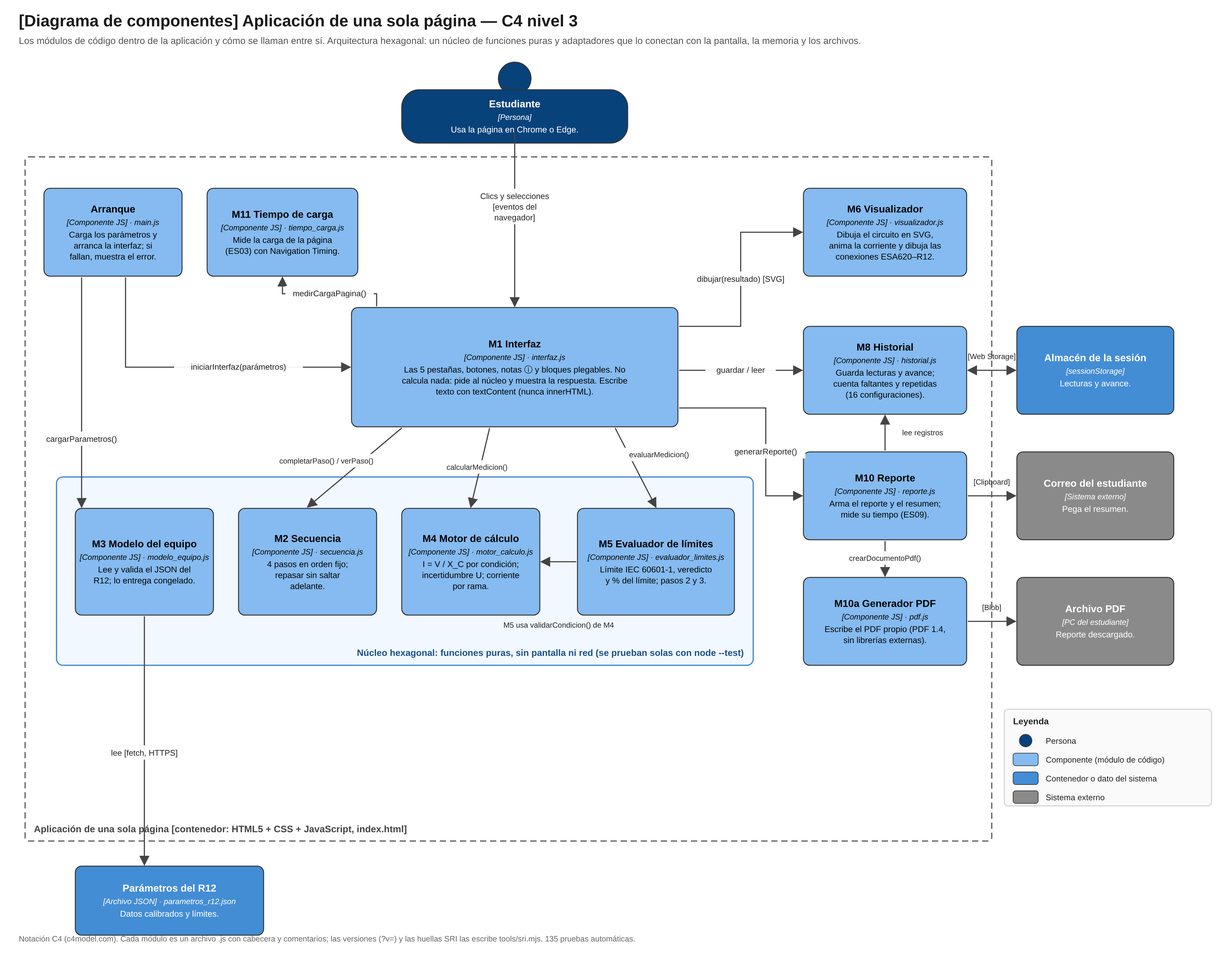
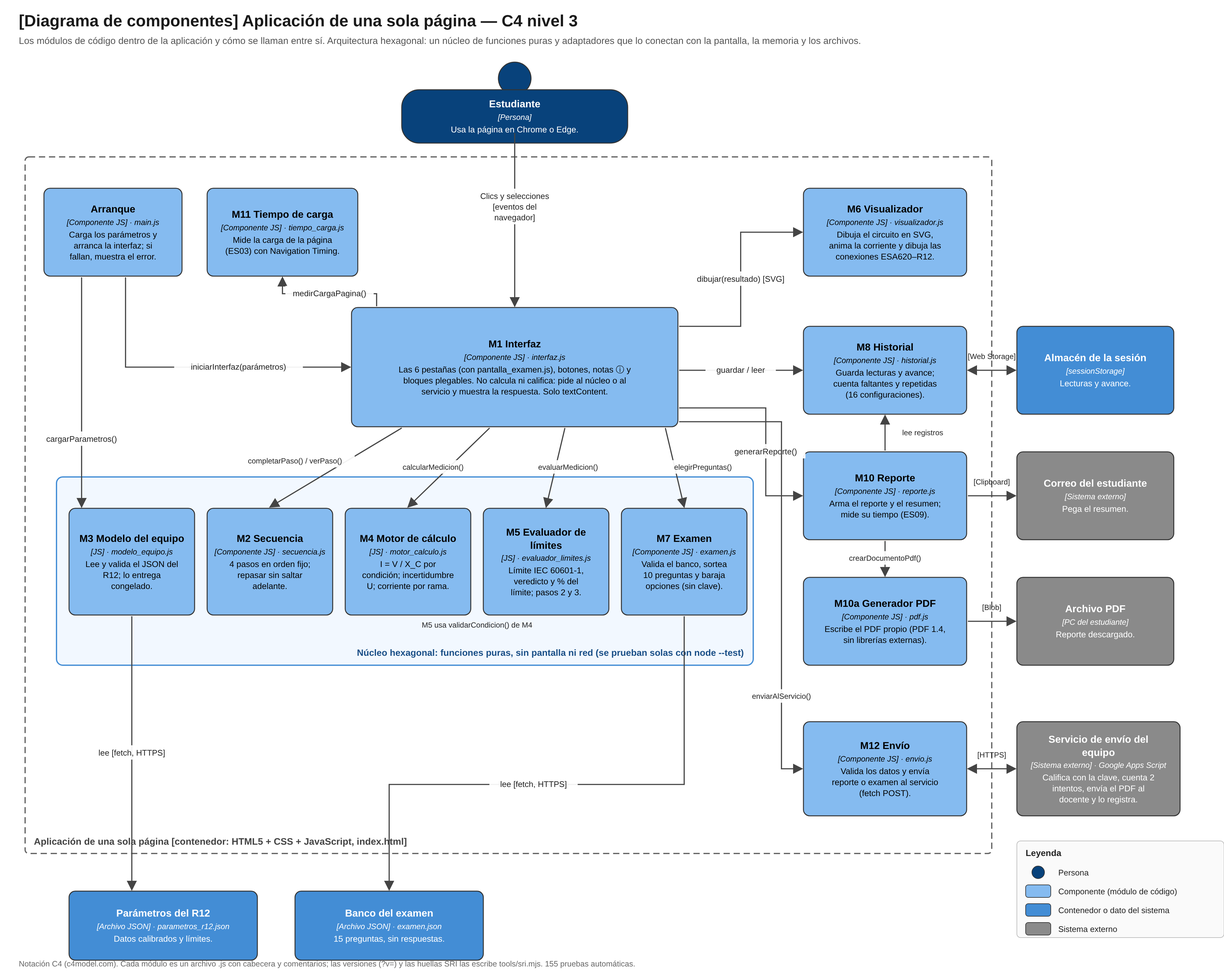
M1/M12: correo del docente vacío por defecto + ES13 + diagrama N3
- CORREO_DOCENTE_POR_DEFECTO = "": las casillas del reporte y del examen
  empiezan vacías, con placeholder "nombre@uao.edu.co" y la nota
  "Escribe el correo de tu docente (solo @uao.edu.co)".
- Vacío al enviar: error "Escribe el correo de tu docente" (prueba nueva).
- Se quita el correo de un docente en particular de código, pruebas,
  ayuda, manual, docs/08, CLAUDE.md y CHANGELOG.
- docs/verificacion.md: ES13 cumple (prueba real del 26/11/2026).
- docs/Diagramas/C4_N3_Componentes_v2.png: diagrama N3 nuevo.
- Hashes SRI regenerados.

diff --git a/index.html b/index.html
@@ -24,10 +24,10 @@
   <!-- Integridad (SRI): las huellas SHA-384 las escribe tools/sri.mjs; correrlo después de cambiar JS o CSS -->
   <link rel="stylesheet" href="css/estilos.css?v=564b5e23bd" integrity="sha384-VkteI71buM/Fq7YrhiiMlf6W3yiaQ6f8HHQUzPARotUK5MSBK8u0i3riDKLifPXG">
   <!-- SRI: inicio (generado por tools/sri.mjs, no editar a mano) -->
-  <link rel="modulepreload" href="js/adaptadores/envio.js?v=b9d3663c3b" integrity="sha384-udNmPDv6KWruCGcNm1OxtzwYFEZISs++UScz90XP6mdzwIYhaiToVRvc/XUHAO0p">
+  <link rel="modulepreload" href="js/adaptadores/envio.js?v=096afc80cc" integrity="sha384-CWr8gMxcOMt4hMW9ra5o9iOC81ie70DixgbIHPA+u9Qz36RVXeB+v2l2a9Dmmm3g">
   <link rel="modulepreload" href="js/adaptadores/historial.js?v=37beb88db5" integrity="sha384-N764jbU0sVhRC7ghKObyjTjXmaVMHHAPvVcAtTAhaCYpBXdSrwJZ+STKTxzDL19N">
-  <link rel="modulepreload" href="js/adaptadores/interfaz.js?v=c55fec1c5d" integrity="sha384-xV/sHF1vR+9a88AwXAmiloTL28ab7rltc/hvzeseOoAP5Q78oN+xK8rviIzMd/4y">
-  <link rel="modulepreload" href="js/adaptadores/pantalla_examen.js?v=f8182e48fb" integrity="sha384-+BguSPtTKXBp5pAe8B7EV1qlGm/wtVo1qbj2Cb3iitR15nyv3utwSZK77VLQYFdm">
+  <link rel="modulepreload" href="js/adaptadores/interfaz.js?v=6b6bbd1bf4" integrity="sha384-a2u9G/SvegYTypy+KB/WXNvbdvRXn3vz0UqU4Jv4aruvGyKWixVvGkogRr1yzQZI">
+  <link rel="modulepreload" href="js/adaptadores/pantalla_examen.js?v=5ac449d82d" integrity="sha384-WsRJ2C2QOvr8U0P6fWERE++Mx7eRHwcGp5u0vybOezxRWsgzSrMafH0O5R1U4q0m">
   <link rel="modulepreload" href="js/adaptadores/pdf.js?v=bfb0882a03" integrity="sha384-v7CIKgNGK+lpQsqZM3Hh3aYLncGJ3oK0L3QlRkSK4QYwGuJsLVeK0pdtChNpFmq+">
   <link rel="modulepreload" href="js/adaptadores/reporte.js?v=8550e3a4c5" integrity="sha384-hVDjpMW7no30tOWClpB0BNATMJeJTJ226Tnw66XxRfh4iIRp6TSKh+qUoNpo2LtS">
   <link rel="modulepreload" href="js/adaptadores/tiempo_carga.js?v=1c9699f3b9" integrity="sha384-HJaZ87n6slac+sCKpiv4PovGknwW6qIsYSbPkXqTEJSFVD0wGqJegnc9QHmWVjjg">
@@ -38,7 +38,7 @@
   <link rel="modulepreload" href="js/nucleo/motor_calculo.js?v=c6349ec03b" integrity="sha384-xjSewDuO4RE5LN0YcvnJ5XfgNxkZ4GzzGBSuFcnG0SfD8RlOo0ddhp04r0b6fTTH">
   <link rel="modulepreload" href="js/nucleo/secuencia.js?v=bffe121e07" integrity="sha384-v/4SHgduYquka0rL7HHdb+Z7SFxlx6UnWtzSicOu2HWYIDc2nw7ylTx8duc2u5qj">
   <!-- SRI: fin -->
-  <script type="module" src="js/main.js?v=bac5be55f5" integrity="sha384-usW+VfVHZyq9Sax2/PQHv1bn6dPM6a4zevHUbfDMoXyQYBiM3sRZNa0YgJ9sTC4J"></script>
+  <script type="module" src="js/main.js?v=4e91705ff3" integrity="sha384-TpFwX/Ntcf857Sb5b8O7FYUREFufUbBlhRA0luoxulMlfaAR4ia71VnNo7Cyffx/"></script>
 </head>
 <body>
   <header class="encabezado">
@@ -344,8 +344,8 @@
             <input type="text" id="envio-codigo" inputmode="numeric" maxlength="10" autocomplete="off" spellcheck="false">
             <label for="envio-correo">Correo del docente</label>
             <div>
-              <input type="email" id="envio-correo" maxlength="120" autocomplete="off" spellcheck="false">
-              <p class="nota">Solo correos @uao.edu.co</p>
+              <input type="email" id="envio-correo" maxlength="120" autocomplete="off" spellcheck="false" placeholder="nombre@uao.edu.co">
+              <p class="nota">Escribe el correo de tu docente (solo @uao.edu.co)</p>
             </div>
           </div>
           <label class="envio__consentimiento">
@@ -380,8 +380,8 @@
           <input type="text" id="examen-codigo" inputmode="numeric" maxlength="10" autocomplete="off" spellcheck="false">
           <label for="examen-correo">Correo del docente</label>
           <div>
-            <input type="email" id="examen-correo" maxlength="120" autocomplete="off" spellcheck="false">
-            <p class="nota">Solo correos @uao.edu.co</p>
+            <input type="email" id="examen-correo" maxlength="120" autocomplete="off" spellcheck="false" placeholder="nombre@uao.edu.co">
+            <p class="nota">Escribe el correo de tu docente (solo @uao.edu.co)</p>
           </div>
         </div>
         <label class="envio__consentimiento">

diff --git a/ayuda.html b/ayuda.html
@@ -8,7 +8,7 @@
     manual, hay que actualizar también esta página (docs/mantenimiento.md).
   Módulo: M1 – Interfaz de usuario (adaptador)
   Autores: Yustin Rico, David Cardona, Santiago González
-  Creado: 2026-11-14 · Modificado: 2026-11-25
+  Creado: 2026-11-14 · Modificado: 2026-11-26
   ============================================================================
 -->
 <html lang="es">
@@ -143,7 +143,7 @@
       <ol>
         <li>Revisa tu <strong>nombre completo</strong> (viene del reporte; de 3 a 60 caracteres).</li>
         <li>Escribe tu <strong>código estudiantil</strong> (solo números, de 5 a 10 dígitos).</li>
-        <li>Revisa el <strong>correo del docente</strong>: viene lleno con <code>cferro@uao.edu.co</code> y lo puedes cambiar, pero solo se aceptan correos <strong>@uao.edu.co</strong>.</li>
+        <li>Escribe el <strong>correo de tu docente</strong>: la casilla viene vacía y solo se aceptan correos <strong>@uao.edu.co</strong>. Si la dejas vacía, la página te pide «Escribe el correo de tu docente».</li>
         <li>Marca la casilla de consentimiento (Ley 1581 de 2012). Sin ella no se envía nada.</li>
         <li>Presiona <strong>«Enviar reporte al docente»</strong>. Al final aparece un mensaje en verde (enviado) o un aviso con el problema.</li>
         <li>Si no hay internet o el servicio no responde, <strong>descarga el PDF y envíalo tú</strong>.</li>
@@ -154,7 +154,7 @@
       <h3>Paso 6 — Presenta el examen (pestaña «6. Examen»)</h3>
       <p>Son 10 preguntas al azar sobre lo que viste en la herramienta. Nota de 0 a 5; apruebas con 3.0. Tienes <strong>máximo 2 intentos</strong>. Puedes presentarlo aunque no hayas hecho la práctica.</p>
       <ol>
-        <li>Escribe tu <strong>nombre completo</strong>, tu <strong>código estudiantil</strong> y revisa el <strong>correo del docente</strong> (solo @uao.edu.co).</li>
+        <li>Escribe tu <strong>nombre completo</strong>, tu <strong>código estudiantil</strong> y el <strong>correo de tu docente</strong> (viene vacío; solo @uao.edu.co).</li>
         <li>Marca la casilla de consentimiento (Ley 1581 de 2012) y presiona <strong>«Comenzar examen»</strong>. Si ya usaste los 2 intentos, aparece «Ya usaste tus 2 intentos» y no deja empezar.</li>
         <li>Arriba de las preguntas dice <strong>«Intento X de 2»</strong>. Elige una opción en cada pregunta (las opciones salen en desorden en cada intento).</li>
         <li>Cuando respondas las 10 se activa <strong>«Enviar examen»</strong>. Confirma con <strong>«Sí, enviar»</strong>: después no podrás cambiar las respuestas.</li>

diff --git a/js/adaptadores/envio.js b/js/adaptadores/envio.js
@@ -14,7 +14,7 @@
  *   para avisarle al estudiante antes de enviar.
  * Módulo: M12 – Envío (adaptador)
  * Autores: Yustin Rico, David Cardona, Santiago González
- * Creado: 2026-11-25 · Modificado: 2026-11-25
+ * Creado: 2026-11-25 · Modificado: 2026-11-26
  * ============================================================================
  */
 
@@ -28,8 +28,8 @@ export const URL_SERVICIO = "https://script.google.com/macros/s/AKfycby34BCGJeju
 /** Forma que debe tener la dirección de un Apps Script publicado. */
 const PATRON_URL_SERVICIO = /^https:\/\/script\.google\.com\/macros\/s\/[A-Za-z0-9_-]+\/exec$/;
 
-/** Correo del docente que aparece lleno por defecto (se puede cambiar). */
-export const CORREO_DOCENTE_POR_DEFECTO = "cferro@uao.edu.co";
+/** Correo del docente con el que empieza la casilla: vacío, el estudiante escribe el de su docente. */
+export const CORREO_DOCENTE_POR_DEFECTO = "";
 
 /** Reglas de los datos (las mismas del servicio, CONFIG en Codigo_AppsScript.gs). */
 export const LARGO_MINIMO_NOMBRE_ENVIO = 3;
@@ -44,6 +44,7 @@ const TIEMPO_MAXIMO_ENVIO_MS = 30000;
 export const ERRORES_ENVIO = Object.freeze({
   nombre: `Escribe tu nombre completo (de ${LARGO_MINIMO_NOMBRE_ENVIO} a ${LARGO_MAXIMO_NOMBRE_ENVIO} caracteres).`,
   codigo: "El código estudiantil debe tener solo números (5 a 10 dígitos).",
+  correoVacio: "Escribe el correo de tu docente",
   correo: "El correo del docente debe terminar en @uao.edu.co.",
   consentimiento: "Debes aceptar el envío de tus datos al docente.",
 });
@@ -77,8 +78,11 @@ export function validarDatosEnvio({ nombre, codigo, correoDocente, consentimient
   if (!PATRON_CODIGO.test(String(codigo ?? "").trim())) {
     errores.push(ERRORES_ENVIO.codigo);
   }
-  // Correo del docente: solo de la universidad (sin importar mayúsculas)
-  if (!PATRON_CORREO_DOCENTE.test(String(correoDocente ?? "").trim())) {
+  // Correo del docente: obligatorio y solo de la universidad (sin importar mayúsculas)
+  const correoLimpio = String(correoDocente ?? "").trim();
+  if (correoLimpio === "") {
+    errores.push(ERRORES_ENVIO.correoVacio);
+  } else if (!PATRON_CORREO_DOCENTE.test(correoLimpio)) {
     errores.push(ERRORES_ENVIO.correo);
   }
   // Consentimiento: tiene que ser exactamente true (casilla marcada)

diff --git a/tests/envio.test.js b/tests/envio.test.js
@@ -7,7 +7,7 @@
  *   También revisa que el código del servicio publicado no traiga la clave.
  * Módulo: M12 – Envío (pruebas)
  * Autores: Yustin Rico, David Cardona, Santiago González
- * Creado: 2026-11-25 · Modificado: 2026-11-25
+ * Creado: 2026-11-25 · Modificado: 2026-11-26
  * ============================================================================
  */
 
@@ -20,7 +20,7 @@ import { validarDatosEnvio, bytesABase64, ERRORES_ENVIO, CORREO_DOCENTE_POR_DEFE
 const DATOS_VALIDOS = Object.freeze({
   nombre: "Ana María Pérez",
   codigo: "2235552",
-  correoDocente: CORREO_DOCENTE_POR_DEFECTO,
+  correoDocente: "docente@uao.edu.co",
   consentimiento: true,
 });
 
@@ -58,12 +58,20 @@ test("Código: solo números, de 5 a 10 dígitos", () => {
 
 test("Correo del docente: solo @uao.edu.co, sin importar mayúsculas", () => {
   // Casos válidos (incluido todo en mayúsculas)
-  for (const correoDocente of ["cferro@uao.edu.co", "X@UAO.EDU.CO", "nombre.apellido@uao.edu.co"]) {
+  for (const correoDocente of ["docente@uao.edu.co", "X@UAO.EDU.CO", "nombre.apellido@uao.edu.co"]) {
     assert.deepEqual(validarCon({ correoDocente }), [], `correo: ${correoDocente}`);
   }
-  // Casos inválidos: otro dominio, subdominio falso, sin usuario, con espacio, vacío
-  for (const correoDocente of ["x@gmail.com", "x@uao.edu.co.evil.com", "@uao.edu.co", "a b@uao.edu.co", "uao.edu.co", ""]) {
+  // Casos inválidos: otro dominio, subdominio falso, sin usuario, con espacio
+  for (const correoDocente of ["x@gmail.com", "x@uao.edu.co.evil.com", "@uao.edu.co", "a b@uao.edu.co", "uao.edu.co"]) {
     assert.deepEqual(validarCon({ correoDocente }), [ERRORES_ENVIO.correo], `correo: ${correoDocente}`);
+  }
+});
+
+test("Correo del docente vacío: pide escribirlo (la casilla empieza vacía)", () => {
+  assert.equal(CORREO_DOCENTE_POR_DEFECTO, "");
+  // Vacío, solo espacios o ausente
+  for (const correoDocente of ["", "   ", undefined, null]) {
+    assert.deepEqual(validarCon({ correoDocente }), ["Escribe el correo de tu docente"], `correo: ${String(correoDocente)}`);
   }
 });
 

diff --git a/js/adaptadores/pantalla_examen.js b/js/adaptadores/pantalla_examen.js
@@ -22,10 +22,10 @@
  */
 
 import { elegirPreguntas, barajarOpciones, armarRespuestas, todasRespondidas } from "../nucleo/examen.js?v=db2b15b911";
-import { elemento, crearConTexto } from "./interfaz.js?v=c55fec1c5d";
+import { elemento, crearConTexto } from "./interfaz.js?v=6b6bbd1bf4";
 import { crearPdfExamen, nombreArchivoExamen, limpiarNombre } from "./reporte.js?v=8550e3a4c5";
 import { descargarPdf } from "./pdf.js?v=bfb0882a03";
-import { validarDatosEnvio, bytesABase64, enviarAlServicio, consultarIntentos, CORREO_DOCENTE_POR_DEFECTO } from "./envio.js?v=b9d3663c3b";
+import { validarDatosEnvio, bytesABase64, enviarAlServicio, consultarIntentos, CORREO_DOCENTE_POR_DEFECTO } from "./envio.js?v=096afc80cc";
 
 /** Textos de los botones. */
 const TEXTO_COMENZAR = "Comenzar examen";

diff --git a/js/main.js b/js/main.js
@@ -14,8 +14,8 @@
 
 import { cargarParametros } from "./nucleo/modelo_equipo.js?v=5ca0bfb4e4";
 import { cargarBanco } from "./nucleo/examen.js?v=db2b15b911";
-import { iniciarInterfaz, mostrarError } from "./adaptadores/interfaz.js?v=c55fec1c5d";
-import { iniciarExamen, mostrarErrorExamen } from "./adaptadores/pantalla_examen.js?v=f8182e48fb";
+import { iniciarInterfaz, mostrarError } from "./adaptadores/interfaz.js?v=6b6bbd1bf4";
+import { iniciarExamen, mostrarErrorExamen } from "./adaptadores/pantalla_examen.js?v=5ac449d82d";
 
 /** Ruta del archivo de parámetros, relativa a index.html. */
 const RUTA_PARAMETROS = "datos/parametros_r12.json?v=350fa3291d";

diff --git a/js/adaptadores/interfaz.js b/js/adaptadores/interfaz.js
@@ -41,7 +41,7 @@ import {
 } from "./reporte.js?v=8550e3a4c5";
 import { descargarPdf } from "./pdf.js?v=bfb0882a03";
 import { medirCargaPagina, textoTiempoCarga, detalleCarga } from "./tiempo_carga.js?v=1c9699f3b9";
-import { validarDatosEnvio, bytesABase64, enviarAlServicio, CORREO_DOCENTE_POR_DEFECTO } from "./envio.js?v=b9d3663c3b";
+import { validarDatosEnvio, bytesABase64, enviarAlServicio, CORREO_DOCENTE_POR_DEFECTO } from "./envio.js?v=096afc80cc";
 
 /* ------------------------------------------------------------------------ */
 /* Constantes                                                               */

diff --git a/docs/verificacion.md b/docs/verificacion.md
@@ -23,11 +23,11 @@ Equipo de medición: PC con Windows 11 (16 núcleos lógicos), Chrome 157.0.8103
 | ES10 | Usabilidad (SUS) | Media ≥ 68 (media ± DE) | Cuestionario SUS, n ≥ 5 (`docs/protocolo_prueba_usuarios.md` §4) | Pendiente: sesión con estudiantes 18/11 | Pendiente |
 | ES11 | Completan la prueba guiada sin ayuda | ≥ 80 % (≥ 4 de 5) | Tareas observadas (`docs/protocolo_prueba_usuarios.md` §3) | Pendiente: sesión con estudiantes 18/11 | Pendiente |
 | ES12 | Costo de licencias por usuario | 0 COP | Lista de dependencias y licencias | **0 COP**: 0 dependencias; código propio con licencia MIT | ✅ Sí |
-| ES13 | Datos a terceros | 0 datos a terceros: solo nombre, código y resultados al correo del docente, con consentimiento | Registro de todas las peticiones de red (CDP) durante una práctica completa en la URL publicada, incluido «Enviar reporte al docente» | Antes del 25/11: **0** peticiones a otros sitios. Con M12: pendiente repetir (se espera 1 POST a script.google.com, solo al pulsar el botón con la casilla marcada) | Pendiente (ver §ES13) |
+| ES13 | Datos a terceros | 0 datos a terceros: solo nombre, código y resultados al correo del docente, con consentimiento | Registro de todas las peticiones de red (CDP) durante una práctica completa en la URL publicada, incluido «Enviar reporte al docente» | Prueba real del 26/11/2026: solo se enviaron nombre, código y resultados al correo @uao.edu.co indicado, con consentimiento; **0** datos a terceros | ✅ Sí |
 | ES14 | RAM de la pestaña | Máximo ≤ 300 MB | Memoria del proceso de la pestaña al final de una práctica completa (Chrome y Edge, sin ventana) | Máximo **46 MB** de memoria privada (91 MB de conjunto de trabajo) | ✅ Sí (preliminar; confirmar 18/11) |
 | ES15 | CPU de la pestaña | Promedio ≤ 20 % | Tiempo de CPU del proceso de la pestaña: 60 s con el circuito animado y actividad, y 30 s en reposo | **10.0 %** de un núcleo animando; **0.0 %** en reposo | ✅ Sí (preliminar; confirmar 18/11) |
 
-**Estado:** 9 cumplen (2 de ellas preliminares) y 5 quedan pendientes: ES03 (prueba con 30 usuarios reales), ES08, ES10 y ES11 (sesión con estudiantes del 18/11) y ES13 (repetir con el envío al docente, M12, 25/11).
+**Estado:** 10 cumplen (2 de ellas preliminares) y 4 quedan pendientes: ES03 (prueba con 30 usuarios reales), ES08, ES10 y ES11 (sesión con estudiantes del 18/11).
 
 ## Detalle de cada medición
 
@@ -127,6 +127,8 @@ Resultado: Chrome 157.0.8103.51 y Edge 157.0.4341.57 con 0 errores ni avisos en 
 2. Pulsar «Enviar reporte al docente» sin marcar la casilla: **0** peticiones (la página muestra el error antes de enviar).
 3. Marcar la casilla y enviar: exactamente **1** POST a `script.google.com` (más la redirección a `script.googleusercontent.com`) y ninguna otra petición externa.
 4. La CSP solo permite conectarse a esos dos dominios de Google; cualquier otro lo bloquea el navegador.
+
+**Resultado del 26/11/2026 (prueba real con M12): ✅ Cumple.** Solo se enviaron nombre, código y resultados al correo @uao.edu.co indicado por el estudiante, con la casilla de consentimiento marcada; **0** datos a terceros.
 
 Medición anterior (13/11/2026, sin M12):
 - Se registraron todas las peticiones de red (Chrome DevTools Protocol) durante una práctica completa en la URL publicada: carga, 12 mediciones, Comparar, reporte, PDF, copiar resumen y recarga.

diff --git a/CHANGELOG.md b/CHANGELOG.md
@@ -5,6 +5,13 @@ Formato basado en [Keep a Changelog](https://keepachangelog.com/es-ES/1.1.0/) y 
 
 ## [Sin publicar]
 
+### Cambiado (26/11/2026, pedido del equipo: correo del docente vacío)
+- M12: `CORREO_DOCENTE_POR_DEFECTO = ""`. Las casillas de correo del envío del reporte (sección 5) y del examen (sección 6) empiezan vacías, con el texto de ayuda «nombre@uao.edu.co» y la nota «Escribe el correo de tu docente (solo @uao.edu.co)».
+- `validarDatosEnvio`: si el correo está vacío, el error es «Escribe el correo de tu docente» (antes salía el de @uao.edu.co). Prueba nueva en `tests/envio.test.js`.
+- Se quita el correo de un docente en particular del código, las pruebas, ayuda.html, el manual, docs/08 y CLAUDE.md.
+- docs/verificacion.md: ES13 cumple (prueba real del 26/11/2026).
+- docs/Diagramas/C4_N3_Componentes_v2.png: diagrama N3 nuevo.
+
 ### Agregado (26/11/2026, corrección del profesor del 23/11/2026: modo examen)
 - `datos/examen.json`: banco de 15 preguntas (q01 a q15) con 4 opciones cada una y SIN respuestas (copiado sin cambios).
 - M7 Examen (`js/nucleo/examen.js`, núcleo): `validarBanco` (al menos 10 preguntas, ids únicos, texto, exactamente 4 opciones y ningún campo fuera de id, pregunta y opciones, para que no se cuele una respuesta), `elegirPreguntas` y `barajarOpciones` (Fisher–Yates, con el azar como parámetro para poder probarlas), `armarRespuestas` ({id: índice ORIGINAL de la opción}), `todasRespondidas` y `cargarBanco`. M7 no califica: la clave solo está en el servicio del equipo.
@@ -18,7 +25,7 @@ Formato basado en [Keep a Changelog](https://keepachangelog.com/es-ES/1.1.0/) y 
 
 ### Agregado (25/11/2026, corrección del profesor del 23/11/2026: el reporte debe llegarle al docente)
 - M12 Envío (`js/adaptadores/envio.js`): `validarDatosEnvio` (nombre 3–80, código de 5 a 10 dígitos, correo @uao.edu.co, consentimiento) y `bytesABase64` (funciones puras), `enviarAlServicio` (POST sin encabezados, 30 s máximo) y `consultarIntentos`. Único servicio externo: Google Apps Script + Gmail + hoja de registros, en la cuenta del proyecto.
-- Sección 5: tarjeta «Enviar al docente» (nombre, código, correo del docente lleno con cferro@uao.edu.co, casilla de consentimiento según la Ley 1581 de 2012) que envía el mismo PDF del reporte y el resumen.
+- Sección 5: tarjeta «Enviar al docente» (nombre, código, correo del docente, casilla de consentimiento según la Ley 1581 de 2012) que envía el mismo PDF del reporte y el resumen.
 - `tools/apps_script/Codigo_AppsScript.gs` (SIN la clave del examen: `const CLAVE = {};`) y `tools/apps_script/LEEME.md` con los pasos para publicarlo.
 - Pruebas nuevas en `tests/envio.test.js` (validación, base64 contra Buffer y que la clave no esté en el repositorio).
 

diff --git a/CLAUDE.md b/CLAUDE.md
@@ -133,12 +133,12 @@ Estilo:
    - tabla de lecturas (condición, medición, I, U, límite, veredicto, hora);
    - botón "Finalizar práctica" → pide el nombre (máximo 60 caracteres; texto plano) → vista de reporte;
    - "Descargar reporte (PDF)": descarga directa del archivo reporte_seguridad_electrica_AAAA-MM-DD.pdf, creado por el generador propio js/adaptadores/pdf.js (sin librerías; Blob + enlace con download);
-   - Tarjeta «Enviar al docente» (M12): nombre, código estudiantil, correo del docente (cferro@uao.edu.co, editable, solo @uao.edu.co) y casilla de consentimiento (Ley 1581 de 2012); envía el mismo PDF y el resumen al servicio del equipo;
+   - Tarjeta «Enviar al docente» (M12): nombre, código estudiantil, correo del docente (vacío por defecto, placeholder "nombre@uao.edu.co", solo @uao.edu.co; vacío → "Escribe el correo de tu docente") y casilla de consentimiento (Ley 1581 de 2012); envía el mismo PDF y el resumen al servicio del equipo;
    - "Copiar resumen" copia el resumen al portapapeles (navigator.clipboard.writeText); el estudiante lo pega en su correo y adjunta el PDF. (Antes era un enlace mailto: se quitó porque en Windows abre una lista de programas y no sirve con correo web.)
    - Sin límite de tiempo: la práctica se puede pausar.
 6. **Examen** (M7 + M12; no hace falta haber hecho la práctica):
    - texto de inicio: "10 preguntas al azar sobre lo que viste en la herramienta. Nota de 0 a 5; apruebas con 3.0. Tienes máximo 2 intentos. La nota la calcula el servicio del equipo y le llega al docente junto con el PDF." (los números salen de datos/examen.json);
-   - nombre, código, correo del docente (cferro@uao.edu.co, editable) y la misma casilla de consentimiento; «Comenzar examen» consulta los intentos: con 2 usados muestra «Ya usaste tus 2 intentos» y no deja empezar; si no, «Intento X de 2» y 10 preguntas con opciones barajadas;
+   - nombre, código, correo del docente (vacío por defecto, igual que en la sección 5) y la misma casilla de consentimiento; «Comenzar examen» consulta los intentos: con 2 usados muestra «Ya usaste tus 2 intentos» y no deja empezar; si no, «Intento X de 2» y 10 preguntas con opciones barajadas;
    - «Enviar examen» solo con las 10 respondidas, con confirmación en la página «¿Enviar? No podrás cambiar las respuestas» (sin window.confirm);
    - envía {tipo: "examen", …, respuestas: {id: índice ORIGINAL}, pdfBase64}; el PDF (M10, crearPdfExamen) lleva nombre, código, fecha y hora, intento y la opción elegida en cada pregunta, sin nota;
    - muestra nota, Aprobado/No aprobado, correctas y ✓/✗ por pregunta, SIN la respuesta correcta; intentos que quedan; «Descargar mi examen (PDF)»; los errores del servicio se muestran tal cual.

diff --git a/docs/manual_usuario.md b/docs/manual_usuario.md
@@ -107,7 +107,7 @@ Debajo aparece la última lectura de cada configuración que hayas medido, en un
 **Enviar al docente (directo desde la herramienta).** Debajo de los botones está la tarjeta **«Enviar al docente»**:
 1. Revisa tu **nombre completo** (viene del reporte; de 3 a 60 caracteres).
 2. Escribe tu **código estudiantil** (solo números, de 5 a 10 dígitos).
-3. Revisa el **correo del docente**: viene lleno con `cferro@uao.edu.co` y lo puedes cambiar, pero solo se aceptan correos **@uao.edu.co**.
+3. Escribe el **correo de tu docente**: la casilla viene vacía y solo se aceptan correos **@uao.edu.co**. Si la dejas vacía, la página te pide «Escribe el correo de tu docente».
 4. Marca la casilla **«Acepto que mi nombre, mi código y mis resultados se envíen al correo del docente, solo con fines académicos (Ley 1581 de 2012)»**. Sin ella no se envía nada.
 5. Presiona **«Enviar reporte al docente»**. El botón dice «Enviando…» mientras tanto. Al final aparece un mensaje en verde (enviado) o un aviso con el problema.
 6. Si no hay internet o el servicio no responde, **descarga el PDF y envíalo tú** (pasos 3 a 5).
@@ -122,7 +122,7 @@ Después de generar el reporte puedes volver a medir y generarlo otra vez.
 
 ### Paso 6 — Presenta el examen (pestaña «6. Examen»)
 Son 10 preguntas al azar sobre lo que viste en la herramienta. Nota de 0 a 5; apruebas con 3.0. Tienes **máximo 2 intentos**. Puedes presentarlo aunque no hayas hecho la práctica.
-1. Escribe tu **nombre completo**, tu **código estudiantil** y revisa el **correo del docente** (solo @uao.edu.co).
+1. Escribe tu **nombre completo**, tu **código estudiantil** y el **correo de tu docente** (viene vacío; solo @uao.edu.co).
 2. Marca la casilla de consentimiento (Ley 1581 de 2012) y presiona **«Comenzar examen»**. La herramienta pregunta cuántos intentos llevas: si ya usaste los 2, aparece «Ya usaste tus 2 intentos» y no deja empezar.
 3. Arriba de las preguntas dice **«Intento X de 2»**. Elige una opción en cada pregunta (las opciones salen en desorden en cada intento).
 4. Cuando respondas las 10 se activa **«Enviar examen»**. Pide confirmación: «¿Enviar? No podrás cambiar las respuestas». Presiona **«Sí, enviar»**.

diff --git a/docs/08_Arquitectura_y_diseno_detallado.md b/docs/08_Arquitectura_y_diseno_detallado.md
@@ -79,8 +79,8 @@ Justificación: cumple RNF04 (sin instalación, fuera del laboratorio), RNF05 (P
 | Resultado | I_uA, U_uA, limite_uA, veredicto ("Cumple" o "No cumple"), hora | {I_uA:14.73, U_uA:1.32, limite_uA:500, veredicto:"Cumple"} |
 | Registro | Resultado + Condición + Medición | Una fila del historial y del reporte |
 | Avance de la prueba | pasos completados (1 a 4) | Se guarda en sessionStorage |
-| Envío del reporte | tipo: "reporte"; nombre (3–80); codigo (5–10 dígitos); correoDocente (@uao.edu.co); consentimiento: true; resumen; pdfBase64 | {tipo:"reporte", nombre:"Ana Pérez", codigo:"2235552", correoDocente:"cferro@uao.edu.co", consentimiento:true, …} |
-| Respuesta del servicio | ok (sí/no); error o mensaje | {ok:true, mensaje:"Reporte enviado a cferro@uao.edu.co."} |
+| Envío del reporte | tipo: "reporte"; nombre (3–80); codigo (5–10 dígitos); correoDocente (@uao.edu.co); consentimiento: true; resumen; pdfBase64 | {tipo:"reporte", nombre:"Ana Pérez", codigo:"2235552", correoDocente:"docente@uao.edu.co", consentimiento:true, …} |
+| Respuesta del servicio | ok (sí/no); error o mensaje | {ok:true, mensaje:"Reporte enviado a docente@uao.edu.co."} |
 
 ## 7. Tabla de interacciones cruzadas (guía del Corte 3, punto 2.3)
 | Origen | Destino | Tipo | Naturaleza | Riesgo asociado |
